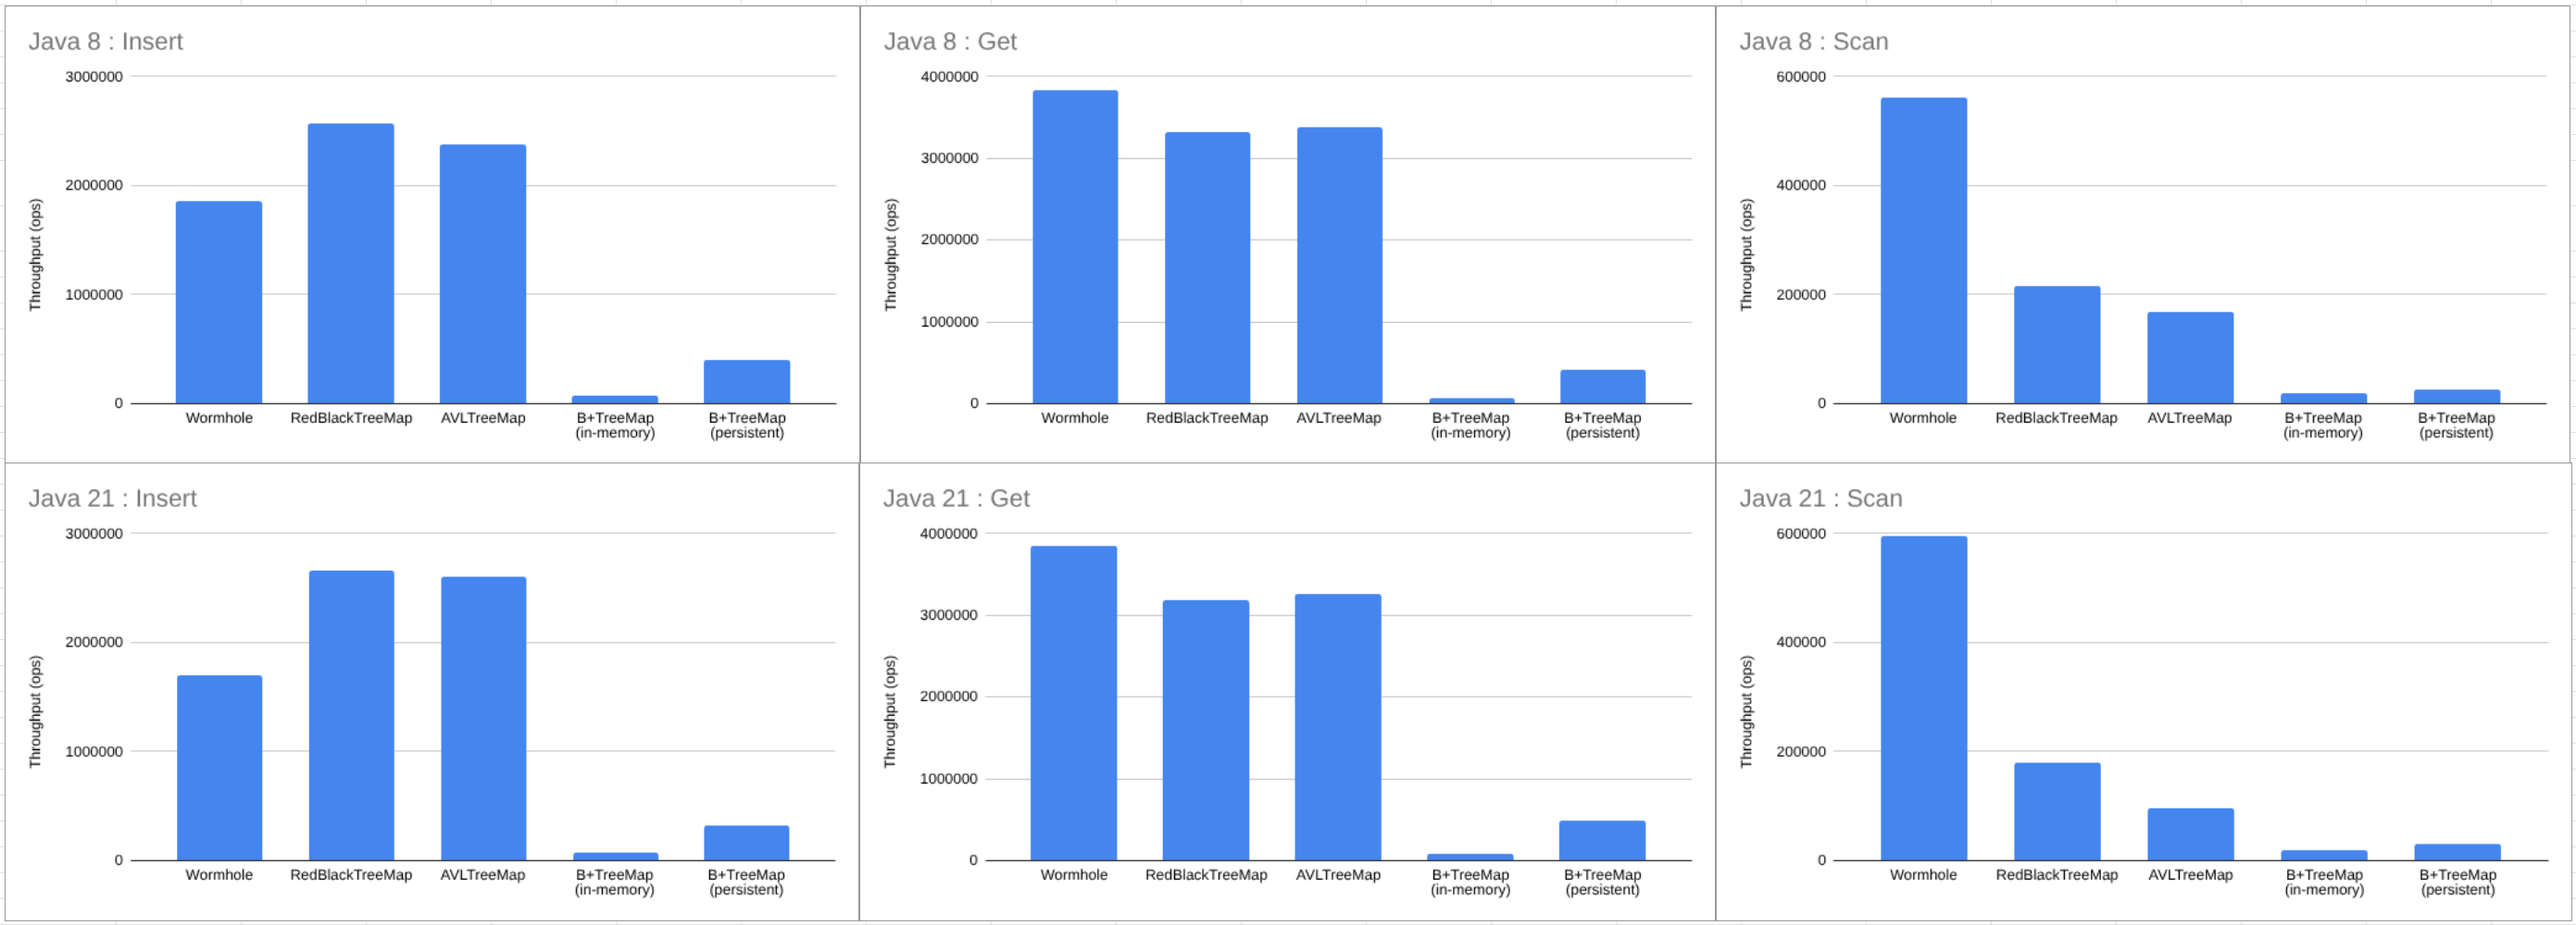
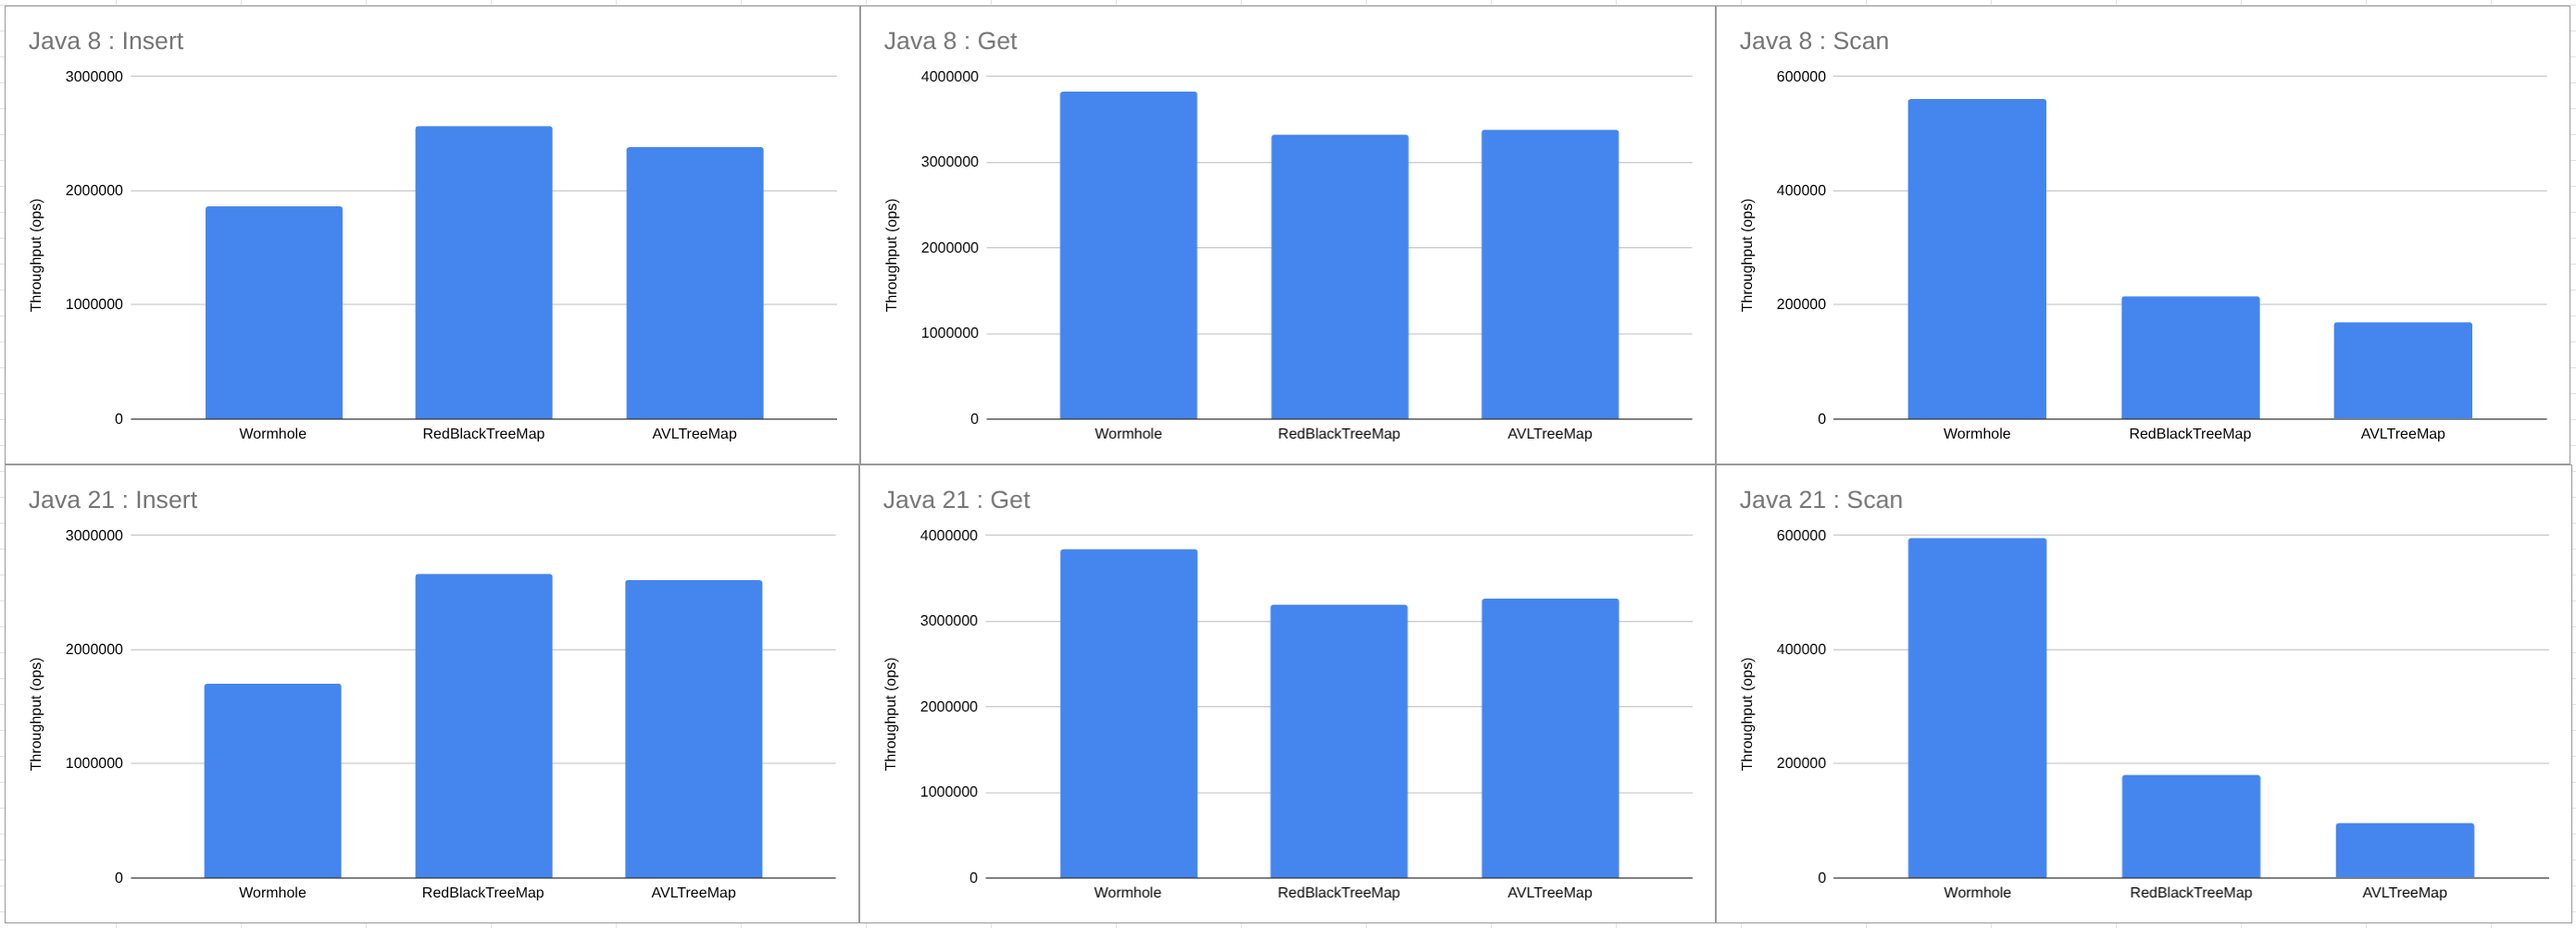
Remove the comparison with B+Tree

diff --git a/README.md b/README.md
@@ -51,17 +51,13 @@ The benchmark was conducted with the following condition:
 - The max key length was 128 and the average key length was 64.
 - The max scan record size was 512 and the average scan record size was 256.
 
-It used other tree maps and B+Tree maps for comparison as follows:
+It used other sorted maps for comparison as follows:
 - `java.util.TreeMap` as a Red-Black tree map from the standard library.
 - `it.unimi.dsi.fastutil.objects.Object2ObjectAVLTreeMap` as an AVL tree map from `it.unimi.dsi:fastutil:8.5.16`
-- `org.mapdb.BTreeMap` as an in-memory B+Tree from `org.mapdb:mapdb:3.0.9`
-  - Thread-safe
-- `btree4j.BTree` as a persistent B+Tree from `io.github.myui:btree4j:0.9.1`
-
-I think it's unfair to compare with the thread-safe or persistent B+Tree. However, I didn't find proper B+Tree implementations that had the same condition (Non thread-safe and in-memory). Please regard them just as references.
 
 ## Future Plans
 
+* **Further optimization**
 * **Persistence support** – Add an optional persistent variant of Wormhole.
 * **Thread safety** – Provide a thread-safe version for concurrent access.
 
